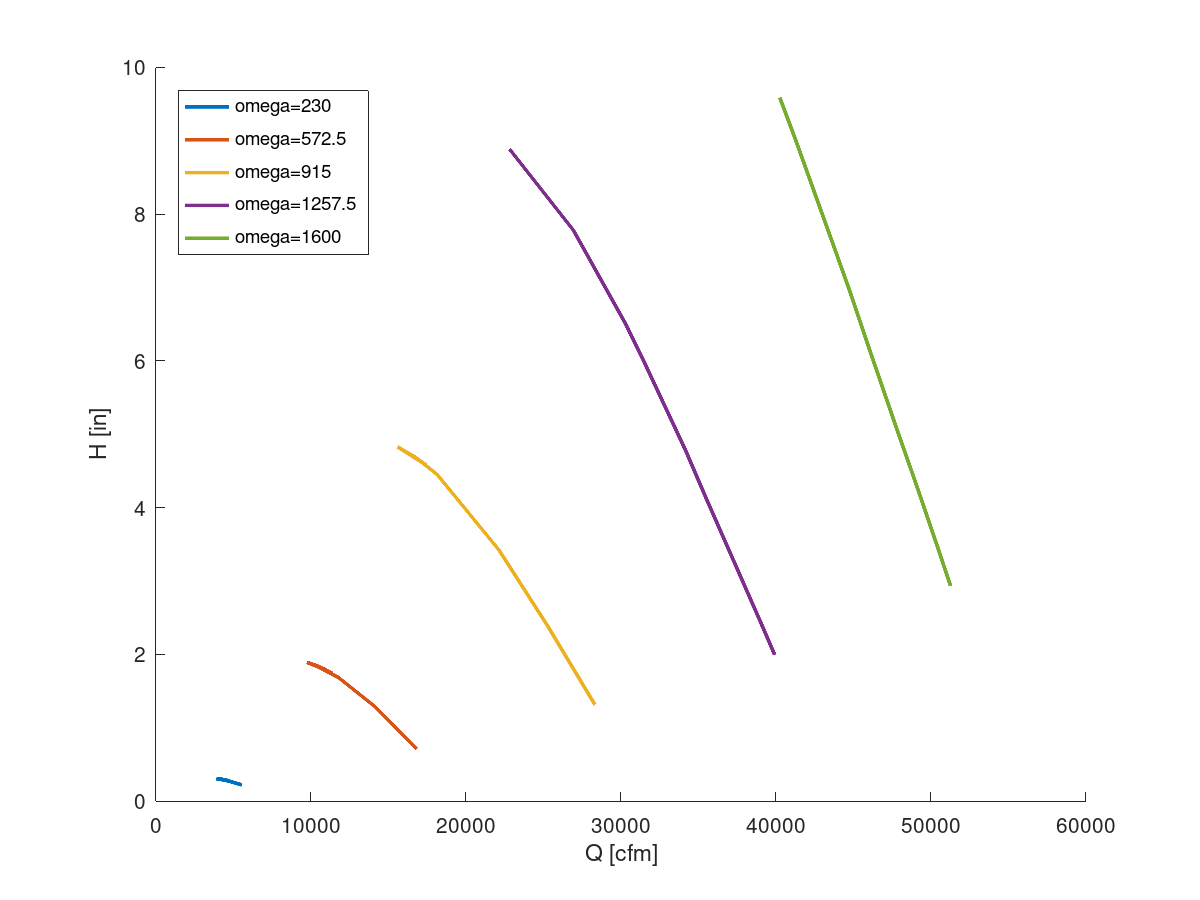
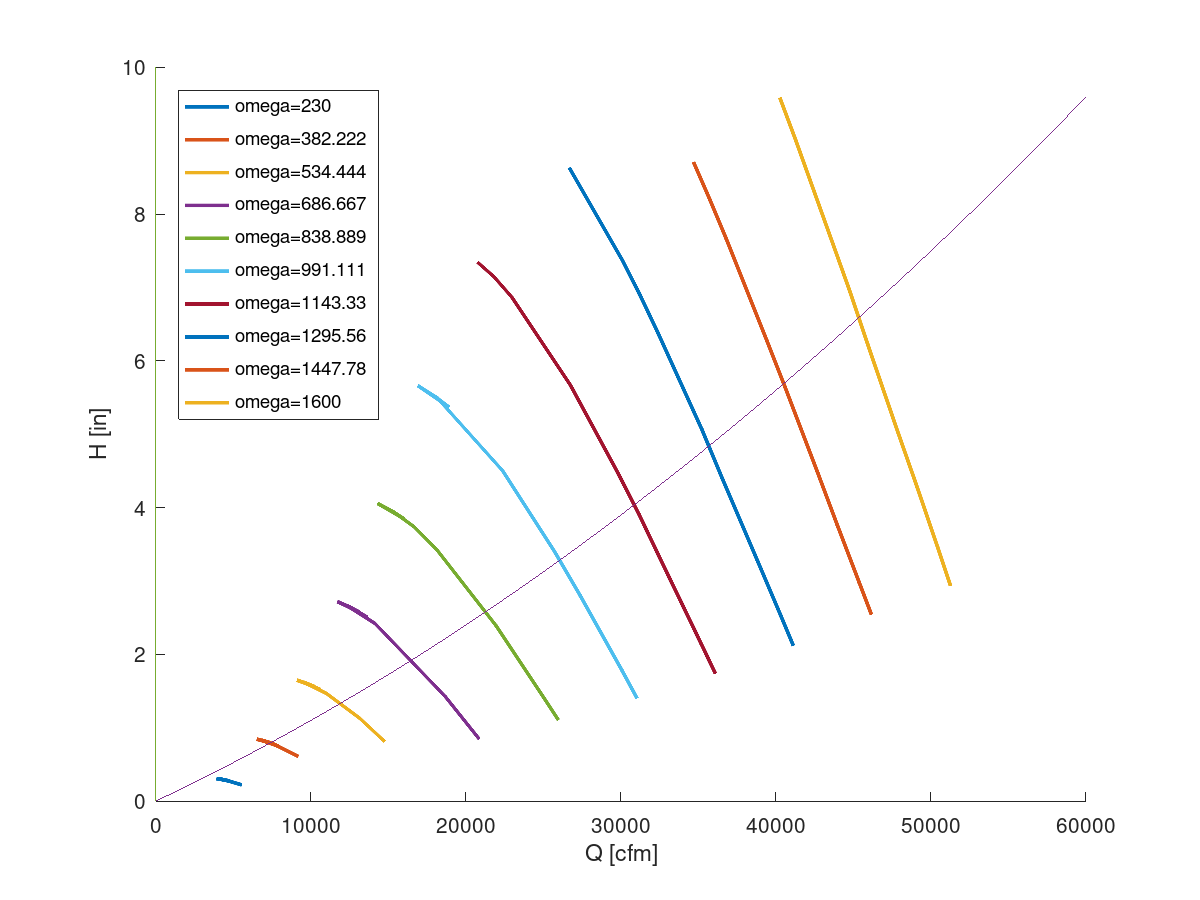
updated friction to use reynolds function

diff --git a/make_graphs.m b/make_graphs.m
@@ -1,6 +1,6 @@
 figure();
 
-omega_arr = [linspace(230, 1600, 5)];
+omega_arr = [linspace(230, 1600, 10)];
 [h, q] = get_perf_curve_affinity(1200);
 
 hold on;
@@ -11,11 +11,18 @@ for idx = 1:length(omega_arr)
    plot(q, h, "LineWidth", 2);
 end
 
+q_sys = linspace(0, 60000, 100);
+h_sys = 1*10^(-9) * q_sys .^ 2 + q_sys * .0001;
+plot(q_sys, h_sys);
+plot(h_sys, q_sys);
+
 hold off;
 
 legendCell = cellstr(num2str(omega_arr', 'omega=%-d'));
 legend(legendCell, "Location", "Northwest");
 xlabel("Q [cfm]");
 ylabel("H [in]");
+xlim([0, 60000]);
+ylim([0, 10]);
 
 saveas(gcf, "fan_curves.png");

diff --git a/friction.m b/friction.m
@@ -1,4 +1,5 @@
-function [f] = friction(Re, epsilon, D)
+function [f] = friction(v, epsilon, D)
+   Re = reynolds(v);
    if Re < 2300
       f = 64 / Re;
    else
